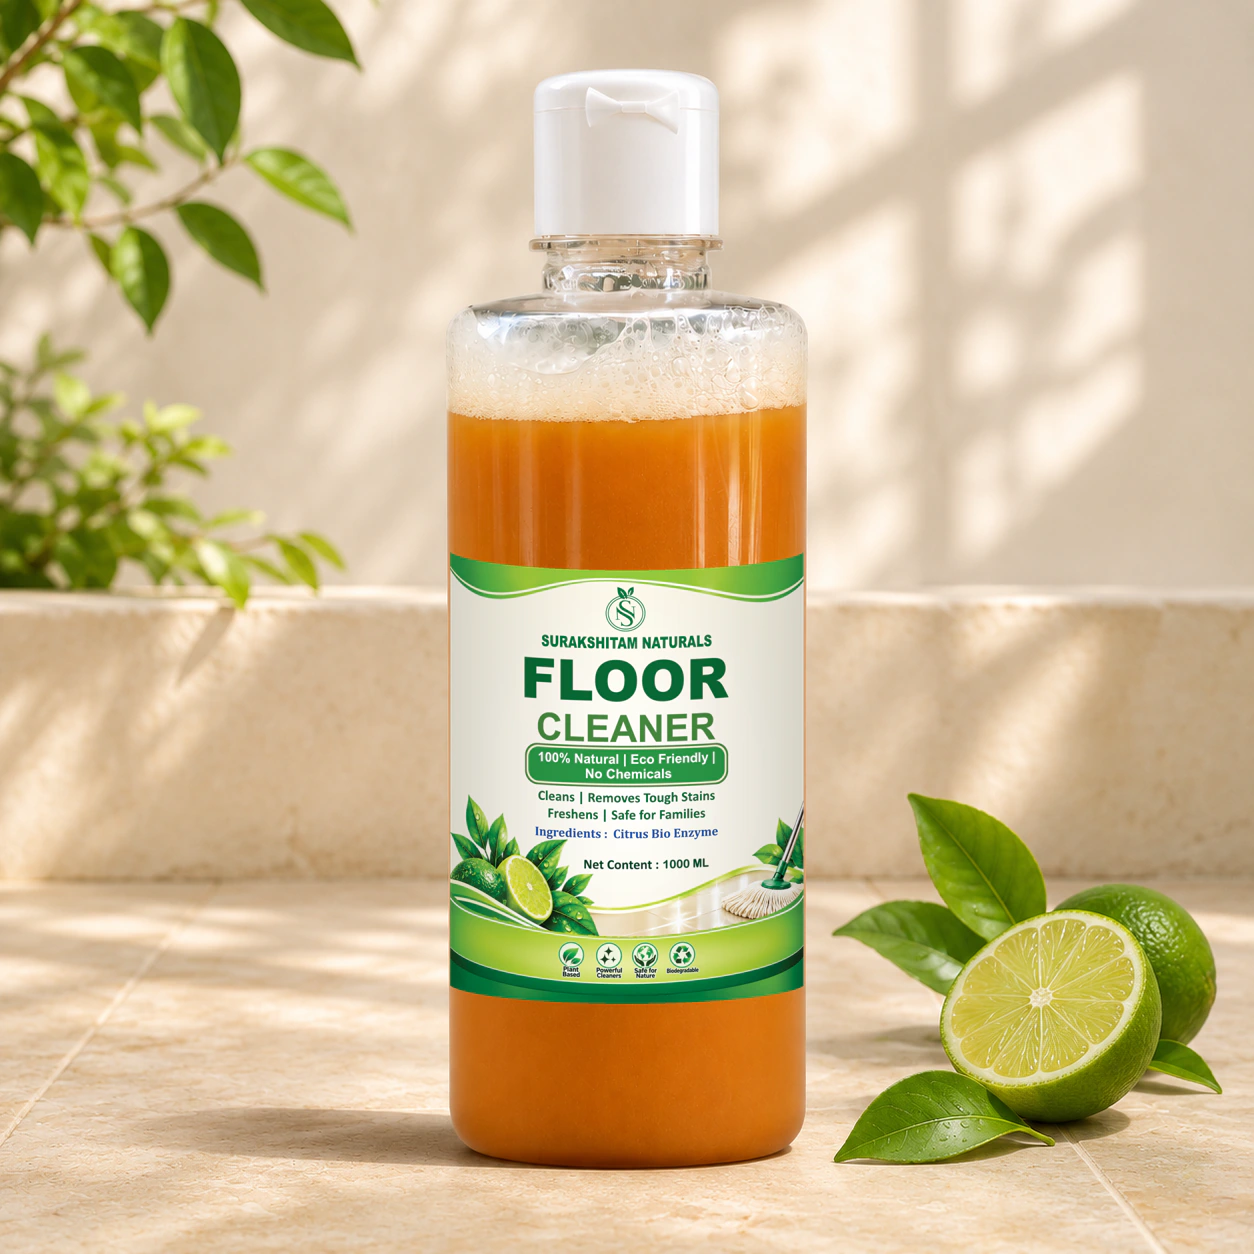
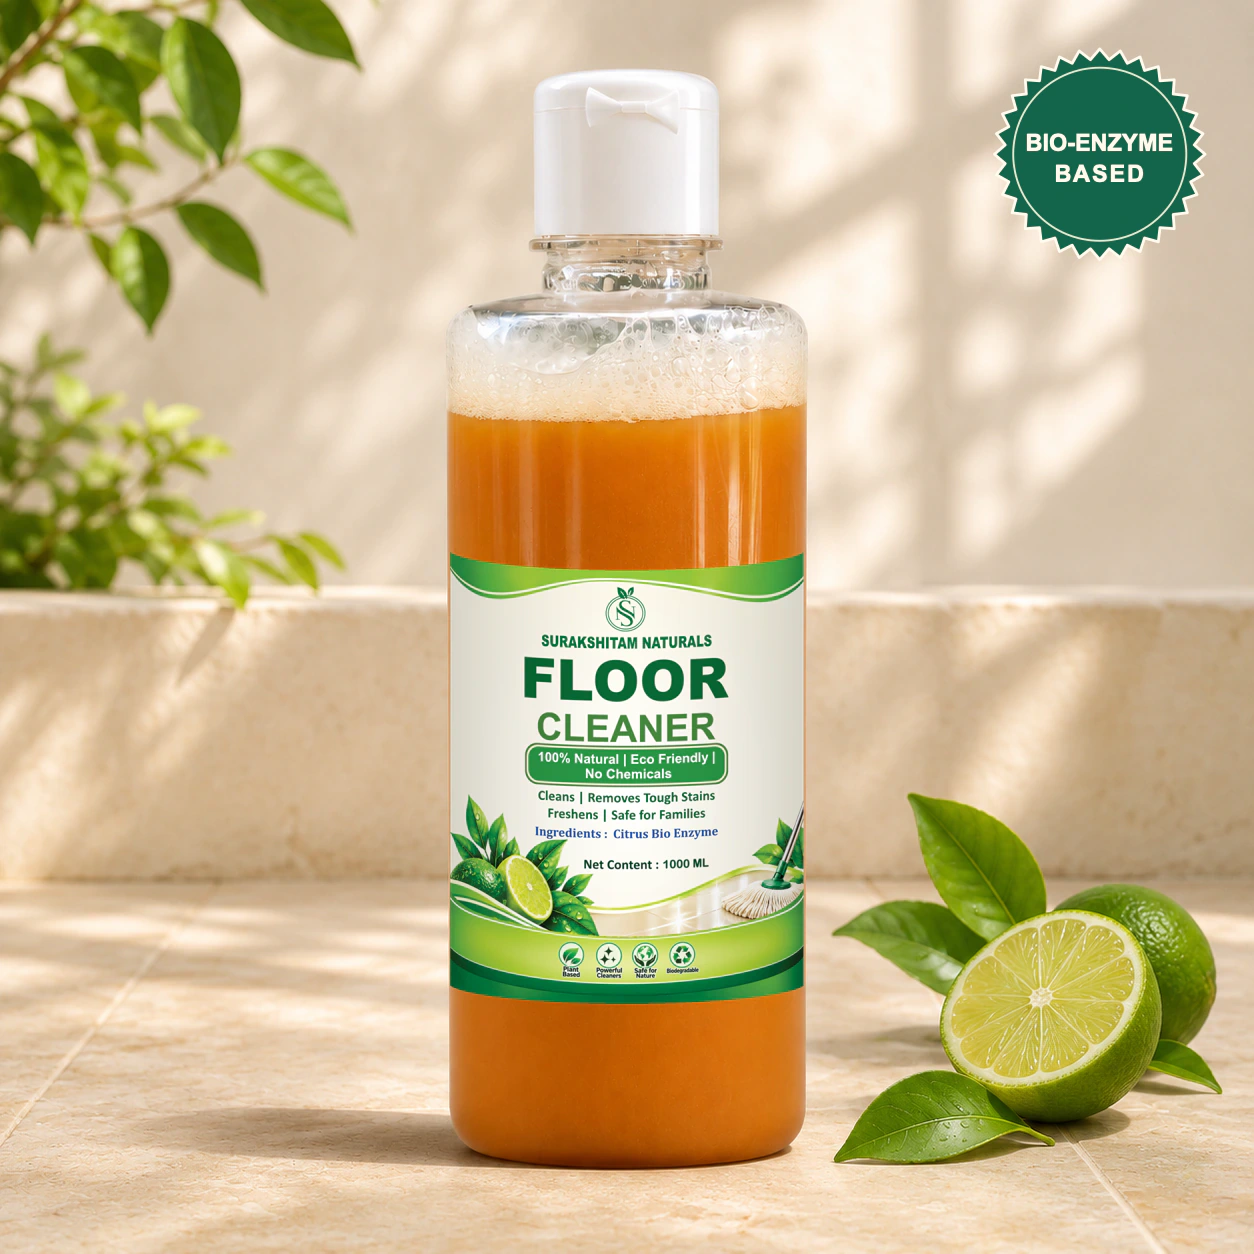
Hide Bio-enzyme Laundry Detergent, add Citrus Bio-enzyme Multi-purpose Cleaner (500 ml, MRP 100)
Product.hidden keeps a record but leaves it out of products, so it has no
page, sitemap entry, search hit or cart line. New badged galleries for the
bio-enzyme floor and toilet cleaners. How-to-use section hides when empty.

Changed region(s): [[0.7775, 0.0311, 0.9641, 0.2177]]

diff --git a/lib/catalog.ts b/lib/catalog.ts
@@ -47,7 +47,8 @@ export const categories: Category[] = [
   },
 ];
 
-export const products: Product[] = [
+/** Every product record, including hidden ones. Use `products` everywhere else. */
+const allProducts: Product[] = [
   /* ------------------------------ HOME CARE ------------------------------ */
   {
     id: "p-dishwash-liquid",
@@ -260,6 +261,8 @@ export const products: Product[] = [
       { id: "1l", label: "1 L", mrp: 185, default: true },
     ],
     sku: "SN-HC-BLD-1000",
+    // Not available now (Supriya, 12 Nov 2026). Remove this line to list it again.
+    hidden: true,
     image: "/surakshitam-product-images/bio-enzyme-laundry-detergent/bio-enzyme-laundry-detergent-01-listing-front-clean.webp",
     images: ["/surakshitam-product-images/bio-enzyme-laundry-detergent/bio-enzyme-laundry-detergent-01-listing-front-clean.webp"],
     isNew: true,
@@ -284,6 +287,30 @@ export const products: Product[] = [
       "/surakshitam-product-images/bio-enzyme-toilet-cleaner/bio-enzyme-toilet-cleaner-1000ml-01-listing-front.webp",
       "/surakshitam-product-images/bio-enzyme-toilet-cleaner/bio-enzyme-toilet-cleaner-1000ml-02-ingredient-lifestyle.webp",
       "/surakshitam-product-images/bio-enzyme-toilet-cleaner/bio-enzyme-toilet-cleaner-1000ml-03-use-context.webp",
+    ],
+    isNew: true,
+  },
+  {
+    id: "p-bio-enzyme-multi-purpose-cleaner",
+    slug: "bio-enzyme-multi-purpose-cleaner",
+    name: "Citrus Bio-enzyme Multi-purpose Cleaner",
+    category: "home-care",
+    shortDescription: "Soapnut and citrus enzyme for everyday cleaning",
+    description:
+      "A multi-purpose cleaner made from soapnut and fermented citrus enzyme — plant-based and biodegradable.",
+    benefits: ["Soapnut & citrus enzyme", "Plant-based", "Biodegradable"],
+    keyIngredients: ["Soapnut", "Citrus bio-enzyme"],
+    // Usage steps not yet given by Supriya; the product page hides the section while this is empty.
+    usage: "",
+    sizes: [
+      { id: "500ml", label: "500 ml", mrp: 100, default: true },
+    ],
+    sku: "SN-HC-BMC-500",
+    image: "/surakshitam-product-images/bio-enzyme-multi-purpose-cleaner/bio-enzyme-multi-purpose-cleaner-01-listing-front.webp",
+    images: [
+      "/surakshitam-product-images/bio-enzyme-multi-purpose-cleaner/bio-enzyme-multi-purpose-cleaner-01-listing-front.webp",
+      "/surakshitam-product-images/bio-enzyme-multi-purpose-cleaner/bio-enzyme-multi-purpose-cleaner-02-ingredient-lifestyle.webp",
+      "/surakshitam-product-images/bio-enzyme-multi-purpose-cleaner/bio-enzyme-multi-purpose-cleaner-03-use-context.webp",
     ],
     isNew: true,
   },
@@ -1315,6 +1342,13 @@ export const products: Product[] = [
 ];
 
 /**
+ * The catalogue the site sells from: every record not marked `hidden`. Shop,
+ * search, home lists, sitemap, product pages and the cart all read this, so a
+ * hidden product has no page, cannot be found and drops out of a saved cart.
+ */
+export const products: Product[] = allProducts.filter((p) => !p.hidden);
+
+/**
  * "Shop by concern" tags, applied here rather than inline on every product object above
  * to keep the catalog literal easy to scan. See lib/site.ts `concerns` for the tag list.
  */
@@ -1355,6 +1389,7 @@ const CONCERN_TAGS: Record<string, string[]> = {
   "p-bio-enzyme-floor-cleaner": ["floors-surfaces", "daily-freshness"],
   "p-bio-enzyme-laundry-detergent": ["laundry", "daily-freshness"],
   "p-bio-enzyme-toilet-cleaner": ["floors-surfaces", "deep-clean"],
+  "p-bio-enzyme-multi-purpose-cleaner": ["floors-surfaces", "daily-freshness"],
   "p-strawberry-lip-balm-stick": ["dry-skin"],
   "p-beetroot-lip-balm": ["dry-skin"],
   "p-beetroot-lip-balm-stick": ["dry-skin"],

diff --git a/app/product/[slug]/page.tsx b/app/product/[slug]/page.tsx
@@ -83,18 +83,22 @@ export default function ProductPage({ params }: { params: { slug: string } }) {
       ),
     },
     { title: "Ingredients", body: <p>{product.keyIngredients.join(", ")}.</p> },
-    {
-      title: "How to use",
-      body: Array.isArray(product.usage) ? (
-        <ol className="list-decimal space-y-1.5 pl-5">
-          {product.usage.map((step) => (
-            <li key={step}>{step}</li>
-          ))}
-        </ol>
-      ) : (
-        <p>{product.usage}</p>
-      ),
-    },
+    ...(product.usage.length
+      ? [
+          {
+            title: "How to use",
+            body: Array.isArray(product.usage) ? (
+              <ol className="list-decimal space-y-1.5 pl-5">
+                {product.usage.map((step) => (
+                  <li key={step}>{step}</li>
+                ))}
+              </ol>
+            ) : (
+              <p>{product.usage}</p>
+            ),
+          },
+        ]
+      : []),
     ...(product.suitableFor ? [{ title: "Suitable for", body: <p>{product.suitableFor}</p> }] : []),
     ...(product.precautions?.length
       ? [

diff --git a/lib/types.ts b/lib/types.ts
@@ -72,6 +72,12 @@ export interface Product {
   /** Pack sizes with MRP; see ProductSize. */
   sizes: ProductSize[];
   sku: string;
+  /**
+   * Unpublished: the record is kept, but the product is left out of `products`
+   * (lib/catalog.ts), so it has no page and cannot be found or ordered. For a
+   * product that is unavailable as a whole; use `soldOut` for a single pack.
+   */
+  hidden?: boolean;
   image: string;
   /** Optional gallery of additional images (Amazon-style). Falls back to [image]. */
   images?: string[];
